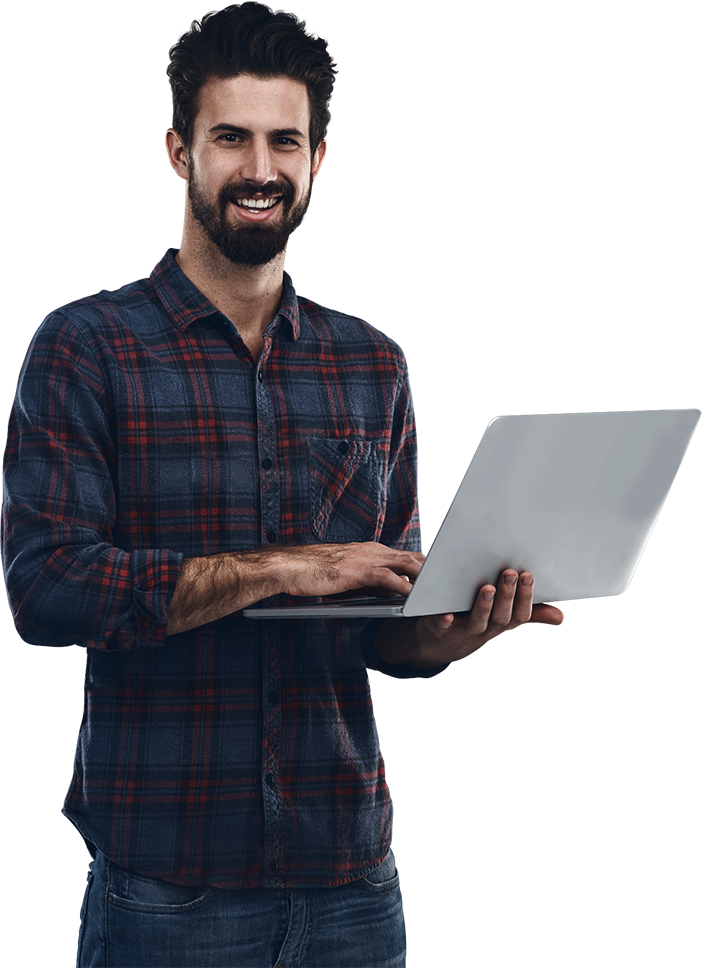
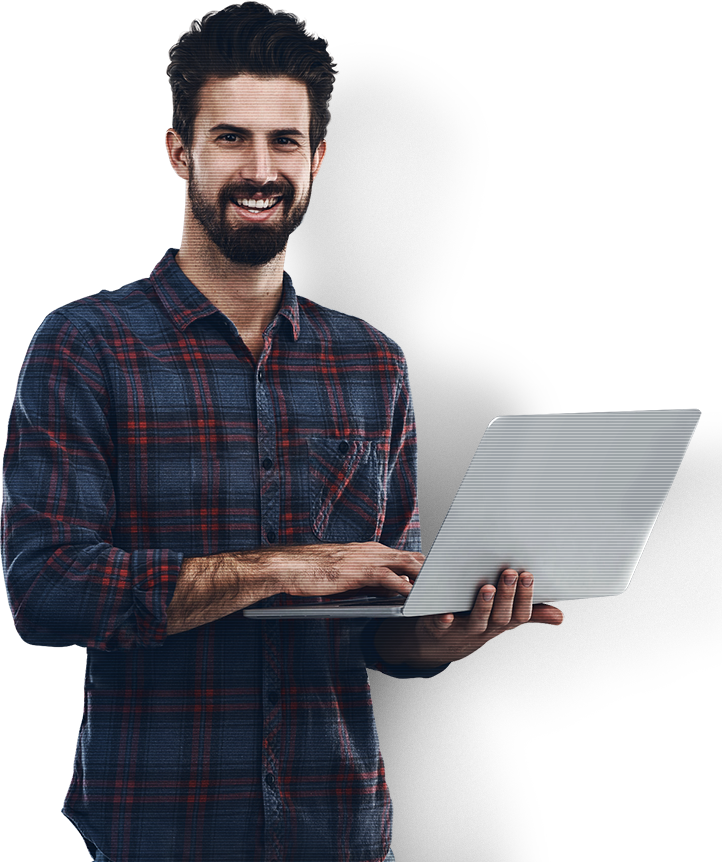
hero block polished

diff --git a/src/scss/_landing_header.scss b/src/scss/_landing_header.scss
@@ -1,161 +1,181 @@
-.header__posit {
-    margin: 0 auto;
-    position: relative;
-    text-align: center;
-    overflow: hidden;
-}
-
-.header_background {
+.header {
     background-image: url("../images/header-bg-txt.jpg");
     background-color: #181c27;
     background-repeat: no-repeat;
-    background-position: 29% 0;
+    background-position: center;
     background-size:cover ;
     position: relative;
-}
+    text-align: center;
+    overflow: hidden;
 
-.header_footer {
-    color: #9f9fa1;
-    font-family: "Acrom", sans-serif;
-    font-size: rem(14);
-}
+    &_footer {
+        color: #9f9fa1;
+        font-family: "Acrom", sans-serif;
+        font-size: rem(14);
+    }
 
-.header_name {
-    padding-bottom: 50px;
-    font-family: "AcromExtraBold", sans-serif;
-    position: relative;
-    color: white;
-    font-size: rem(88);
-    line-height: rem(90);
-}
+    &_name {
+        padding-bottom: 50px;
+        font-family: "AcromExtraBold", sans-serif;
+        position: relative;
+        color: white;
+        font-size: rem(80);
+        line-height: rem(90);
+        display: inline-block;
 
-.header_name:before {
-    content: "<h>";
-    color: #1b4371;
-    font-size: 10px;
-    position: absolute;
-    left: rem(10);
-    font-family: "Acrom", sans-serif;
-    top: rem(-30);
-}
+        &:before {
+            content: "<h>";
+            color: #1b4371;
+            font-size: 10px;
+            position: absolute;
+            left: rem(0);
+            top: rem(-25);
+            font-family: "Acrom", sans-serif;
+        }
 
-.header_name:after{
-    content: "<h>";
-    color: #1b4371;
-    font-size: 10px;
-    position: absolute;
-    right: rem(10);
-    bottom: rem(-6);
-    font-family: "Acrom", sans-serif;
-}
+        &:after{
+            content: "</h>";
+            color: #1b4371;
+            font-size: 10px;
+            position: absolute;
+            right: rem(0);
+            bottom: rem(15);
+            font-family: "Acrom", sans-serif;
+        }
+    }
 
-.header_image {
-    display: none;
+    &_image {
+        display: none;
+    }
 }
 
 @media (min-width: 480px) {
 
     .header_name{
         font-size: rem(140);
-       // width: rem();
         line-height:rem(130);
-    }
-    .header_name:after{
-        bottom: -40px;
-        font-size: rem(15);
-    }
-    .header_name:before{
-        top: -60px;
-        font-size: rem(15);
+
+        &:after{
+            bottom: -40px;
+            font-size: rem(15);
+        }
+
+        &:before{
+            top: -60px;
+            font-size: rem(15);
+        }
     }
 }
+
 @media (min-width: 768px) {
 
-    .header_image {
-        display: block;
-        position: absolute;
-        z-index: 1;
-        top: 13%;
-        width: rem(440);
-        left: 41%;
+    .header {
+        &_image {
+            display: block;
+            position: absolute;
+            z-index: 1;
+            right: rem(10);
+            bottom: 0;
+        }
 
+        &_name {
+            display: block;
+            line-height: rem(100);
+            font-size: rem(95);
+            width: rem(270);
+            text-align: left;
+
+            &:before {
+                font-size: rem(15);
+            }
+
+            &:after {
+                font-size: rem(15);
+                right: rem(-60);
+                bottom: rem(8);
+            }
+        }
+
+        &__posit {
+            padding-top: rem(180);
+        }
+
+        &_footer {
+            text-align: left;
+        }
     }
-    .header_name:after {
-        display: none;
-    }
-    .header_name:before {
-        font-size: rem(15);
-    }
-    .header_name {
-        line-height: rem(94);
-        font-size: rem(88);
-        width: rem(270);
-        left: 12%;
-    }
+
     .name {
         width: rem(100);
     }
-    .header__posit {
-        padding-top: rem(180);
-    }
-    .header_footer {
-        margin-left: rem(57);
-        text-align: left;
-        //padding-left: 0px;
-    }
-    .header_backgroud {
-        background-position: 45% 50%;
-
-    }
-
 }
 
 @media (min-width: 960px) {
-    .header_image {
-        left: 45%;
-    }
 
-    .header_name {
-        font-size: rem(85);
-    }
+    .header {
+        &_name {
+            font-size: rem(120);
+            line-height: rem(130);
 
-    .header_footer {
-        text-align: left;
+            &:after {
+                right: rem(-135);
+                bottom: rem(-6);
+            }
+        }
     }
 }
 
-        @media (min-width: 1024px) {
-    .header_image{
-        width: rem(450);
-        left: rem(550);
+@media (min-width: 1024px) {
+    .header {
+        &_image {
+            bottom: rem(0);
+        }
+
+        &_name {
+            font-size: rem(130);
+            line-height: rem(140);
+
+            &:after {
+                right: rem(-165);
+                bottom: rem(-8);
+            }
+        }
     }
-    .header_name{
-        font-size: rem(170);
-        line-height:rem(160);
-    }
- .header_name:before{
-     font-size: rem(18);
- }
 }
-    @media (min-width: 1140px) {
-        .header_name{
+
+@media (min-width: 1170px) {
+    .wrapper_landing-header {
+        padding: rem(100) rem(20);
+    }
+
+    .header {
+        &_image {
+            right: rem(-40);
+        }
+
+        &_name {
+            width: rem(450);
             font-size: rem(150);
-            line-height: rem(150);
+            line-height: rem(160);
+
+            &:after {
+                right: rem(-45);
+                bottom: rem(-18);
+            }
         }
-        .header_image{
-            width: rem(500);
-            left: rem(600);
-        }
-        .header_footer{
-           font-size: rem(20);
-            margin-left: rem(130);
-        }
-        .header__posit{
-            padding-top: rem(180);
-        }
-        .header_name:before{
-            top: -70px;
+
+        &_footer {
+            font-size: rem(16);
         }
     }
+}
 
+@media (min-width: 1530px) {
+    .wrapper_landing-header {
+        padding: rem(250) rem(20);
+    }
 
+    .header_image {
+        right: rem(-135);
+    }
+}

diff --git a/src/html/landing_header.html b/src/html/landing_header.html
@@ -1,11 +1,16 @@
-<header class="header__posit header_background">
-    <div class="wrapper">
+<header class="header">
+    //= header.html
+    <div class="wrapper wrapper_landing-header">
         <h1 class="header_name">
             GO_ _[&nbsp;IT&nbsp;]
         </h1>
 
         <picture>
-            <source media="(min-width:320px)" srcset="../images/man-header.png 320w">
+            <source srcset="../images/man-header-1530.png" media="(min-width: 1530px)">
+            <source srcset="../images/man-header-1170.png" media="(min-width: 1170px)">
+            <source srcset="../images/man-header-1024.png" media="(min-width: 1024px)">
+            <source srcset="../images/man-header-960.png" media="(min-width: 960px)">
+            <source srcset="../images/man-header-768.png" media="(min-width: 768px)">
             <img src="../images/man-header.png" alt="man" class="header_image">
         </picture>
         <div class="header_footer">

diff --git a/src/scss/_header.scss b/src/scss/_header.scss
@@ -1,6 +1,6 @@
 .container__header-landing {
     min-height: rem(85);
-    background-color: #181c27;
+    //background-color: #181c27;
 }
 
 .wrapper__header {
@@ -44,7 +44,6 @@
         display: none;
         opacity: 0;
         order: 2;
-        font-weight: bold;
         z-index: 1;
         width: 100%;
         line-height: rem(32);
@@ -55,7 +54,8 @@
             text-align: center;
             padding: rem(15) 0;
             margin: rem(15) 0;
-            background-color: rgba(255,255,255,.07);
+            border-top: 1px solid rgba(255,255,255,.1);
+            border-bottom: 1px solid rgba(255,255,255,.1);
 
             a {
                 color: rgba(255,255,255,.4);

diff --git a/src/html/header.html b/src/html/header.html
@@ -2,7 +2,7 @@
     <header class="wrapper wrapper__header">
         <nav class="nav">
             <a href="https://goit.ua/" target="_blank" class="logo">
-                <img src="images/Layer.png">
+                <img src="../images/Layer.png">
             </a>
 
             <ul class="nav-list">

diff --git a/src/index.html b/src/index.html
@@ -9,7 +9,6 @@
     <title>Document</title>
 </head>
 <body>
-//= html/header.html
 //= html/landing_header.html
 //= html/about.html
 //= html/block.html
